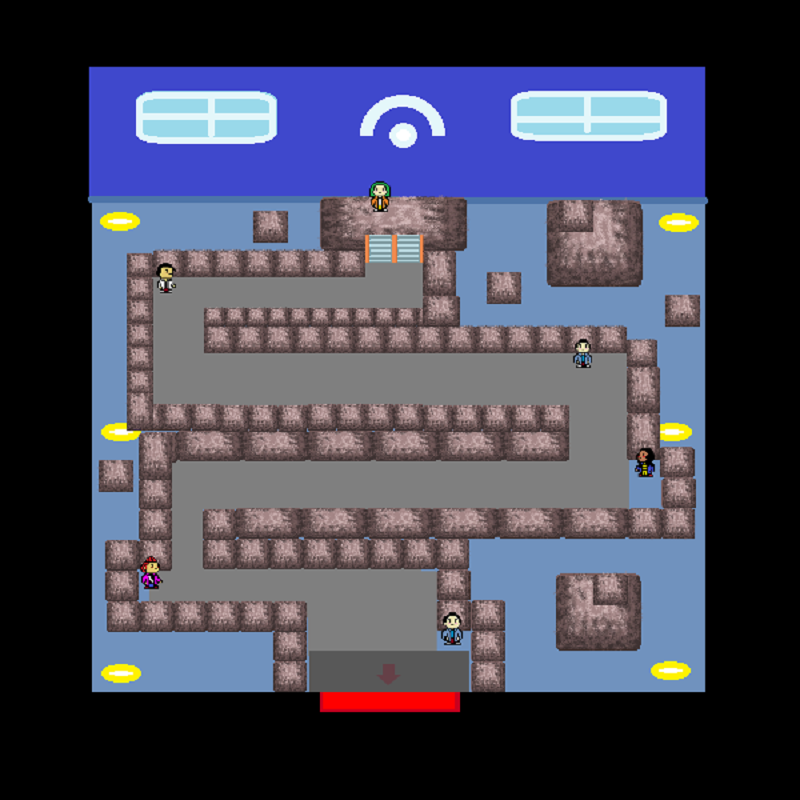
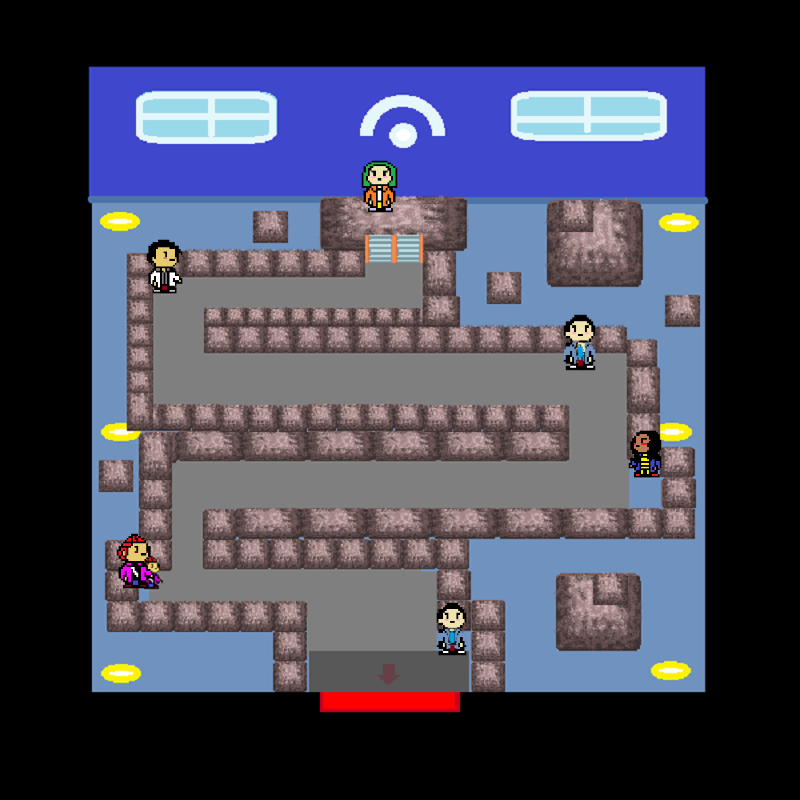
bails

diff --git a/VariablesDeJeu.java b/VariablesDeJeu.java
@@ -422,7 +422,7 @@ public class VariablesDeJeu {//création de l'unique Jframe
 						this.tableauCarte=areneTO;
 						this.xDepart=12;
 						this.yDepart=20;
-						this.imageFond="Images/miniville1PC/arene1.png";
+						this.imageFond="Images/miniville1PC/arene2.png";
 						this.nomCarte="Ar\u00e8ne de la T\u00eate d'Or - RDC";
 						this.musique="Musiques/arene.wav";
 						break;
